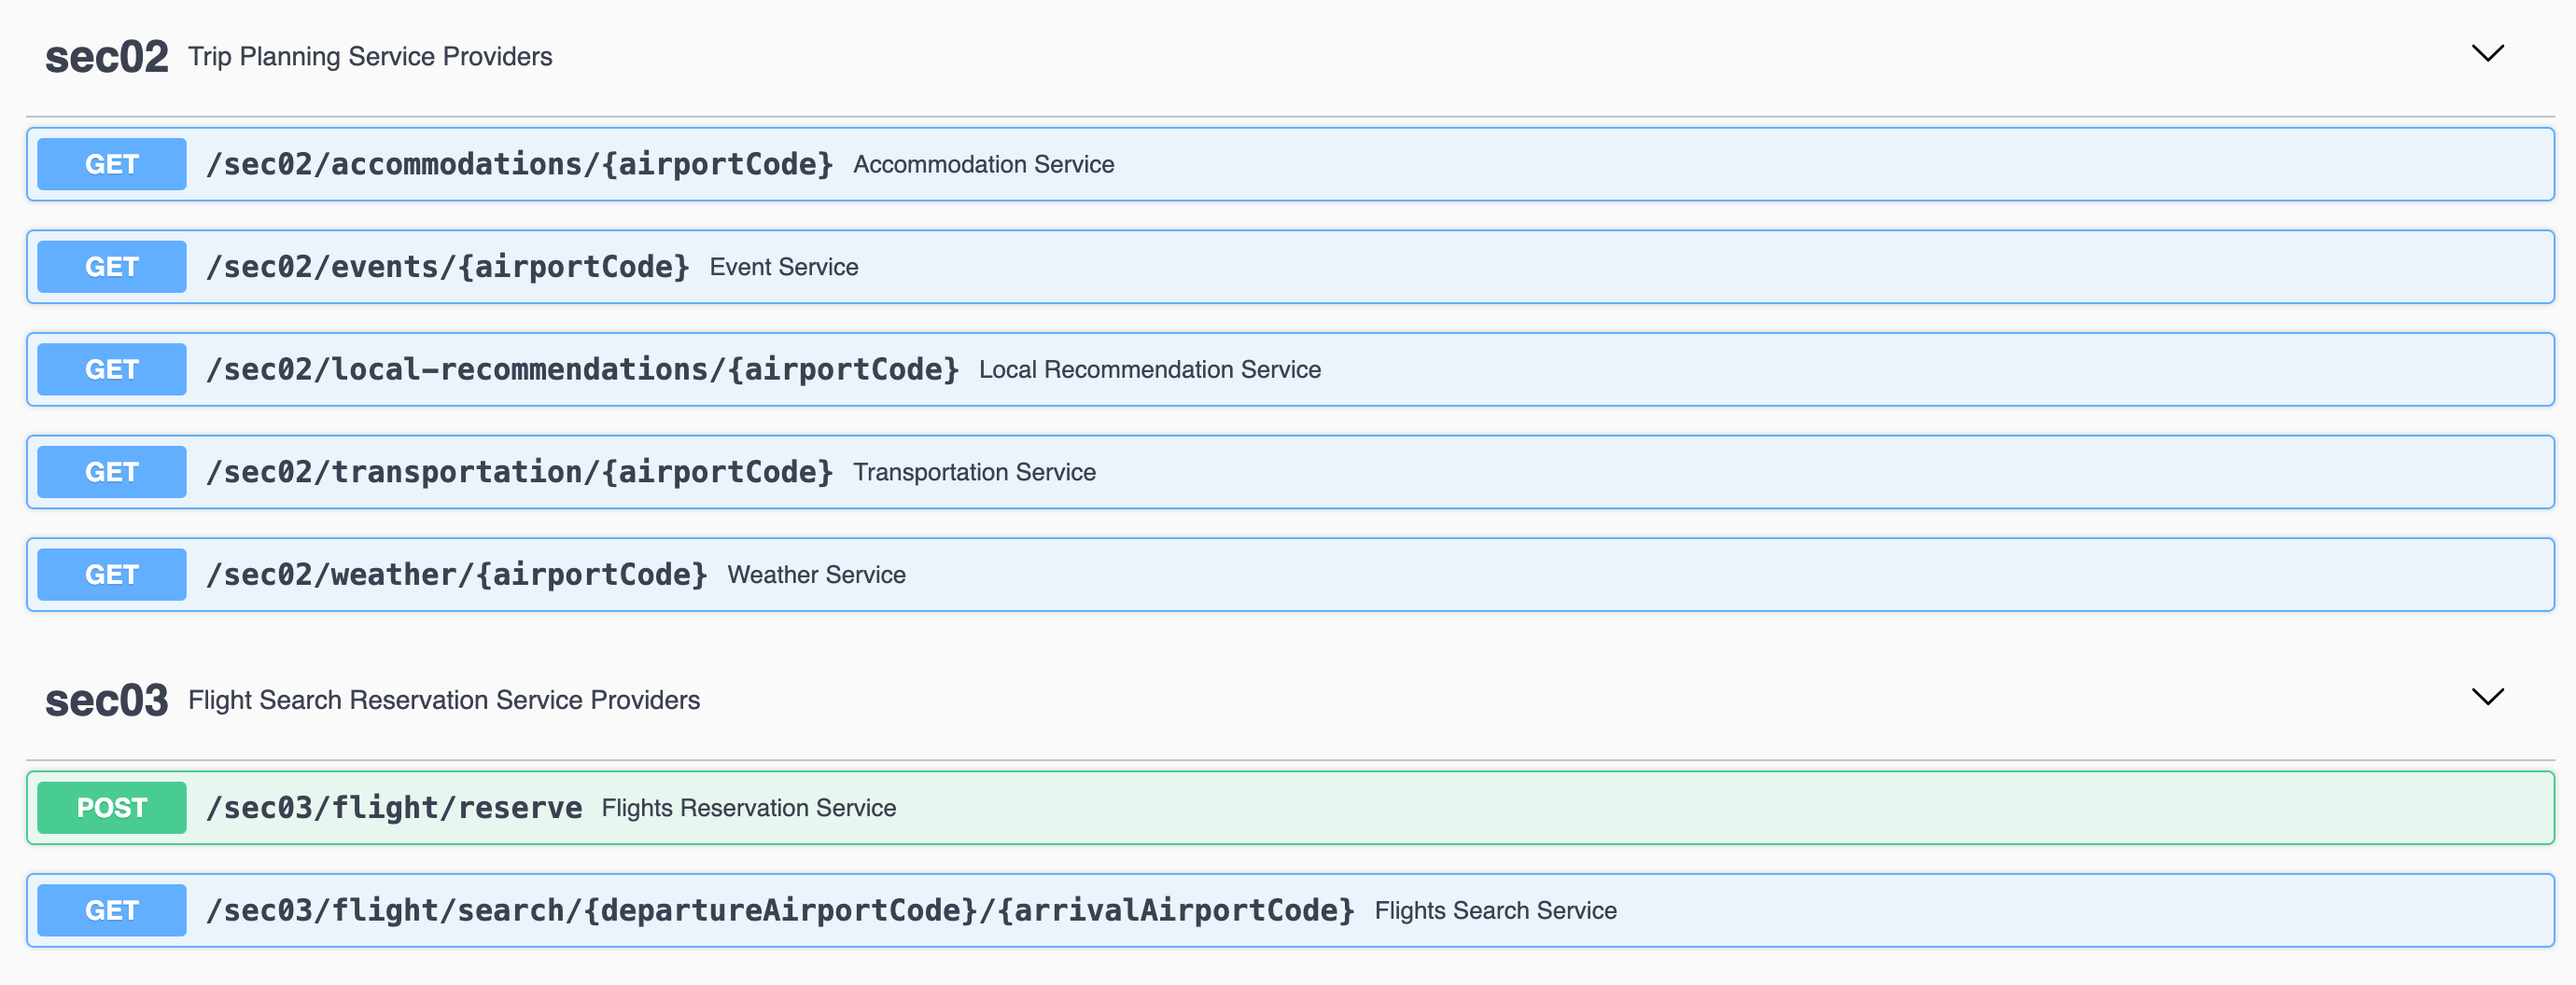
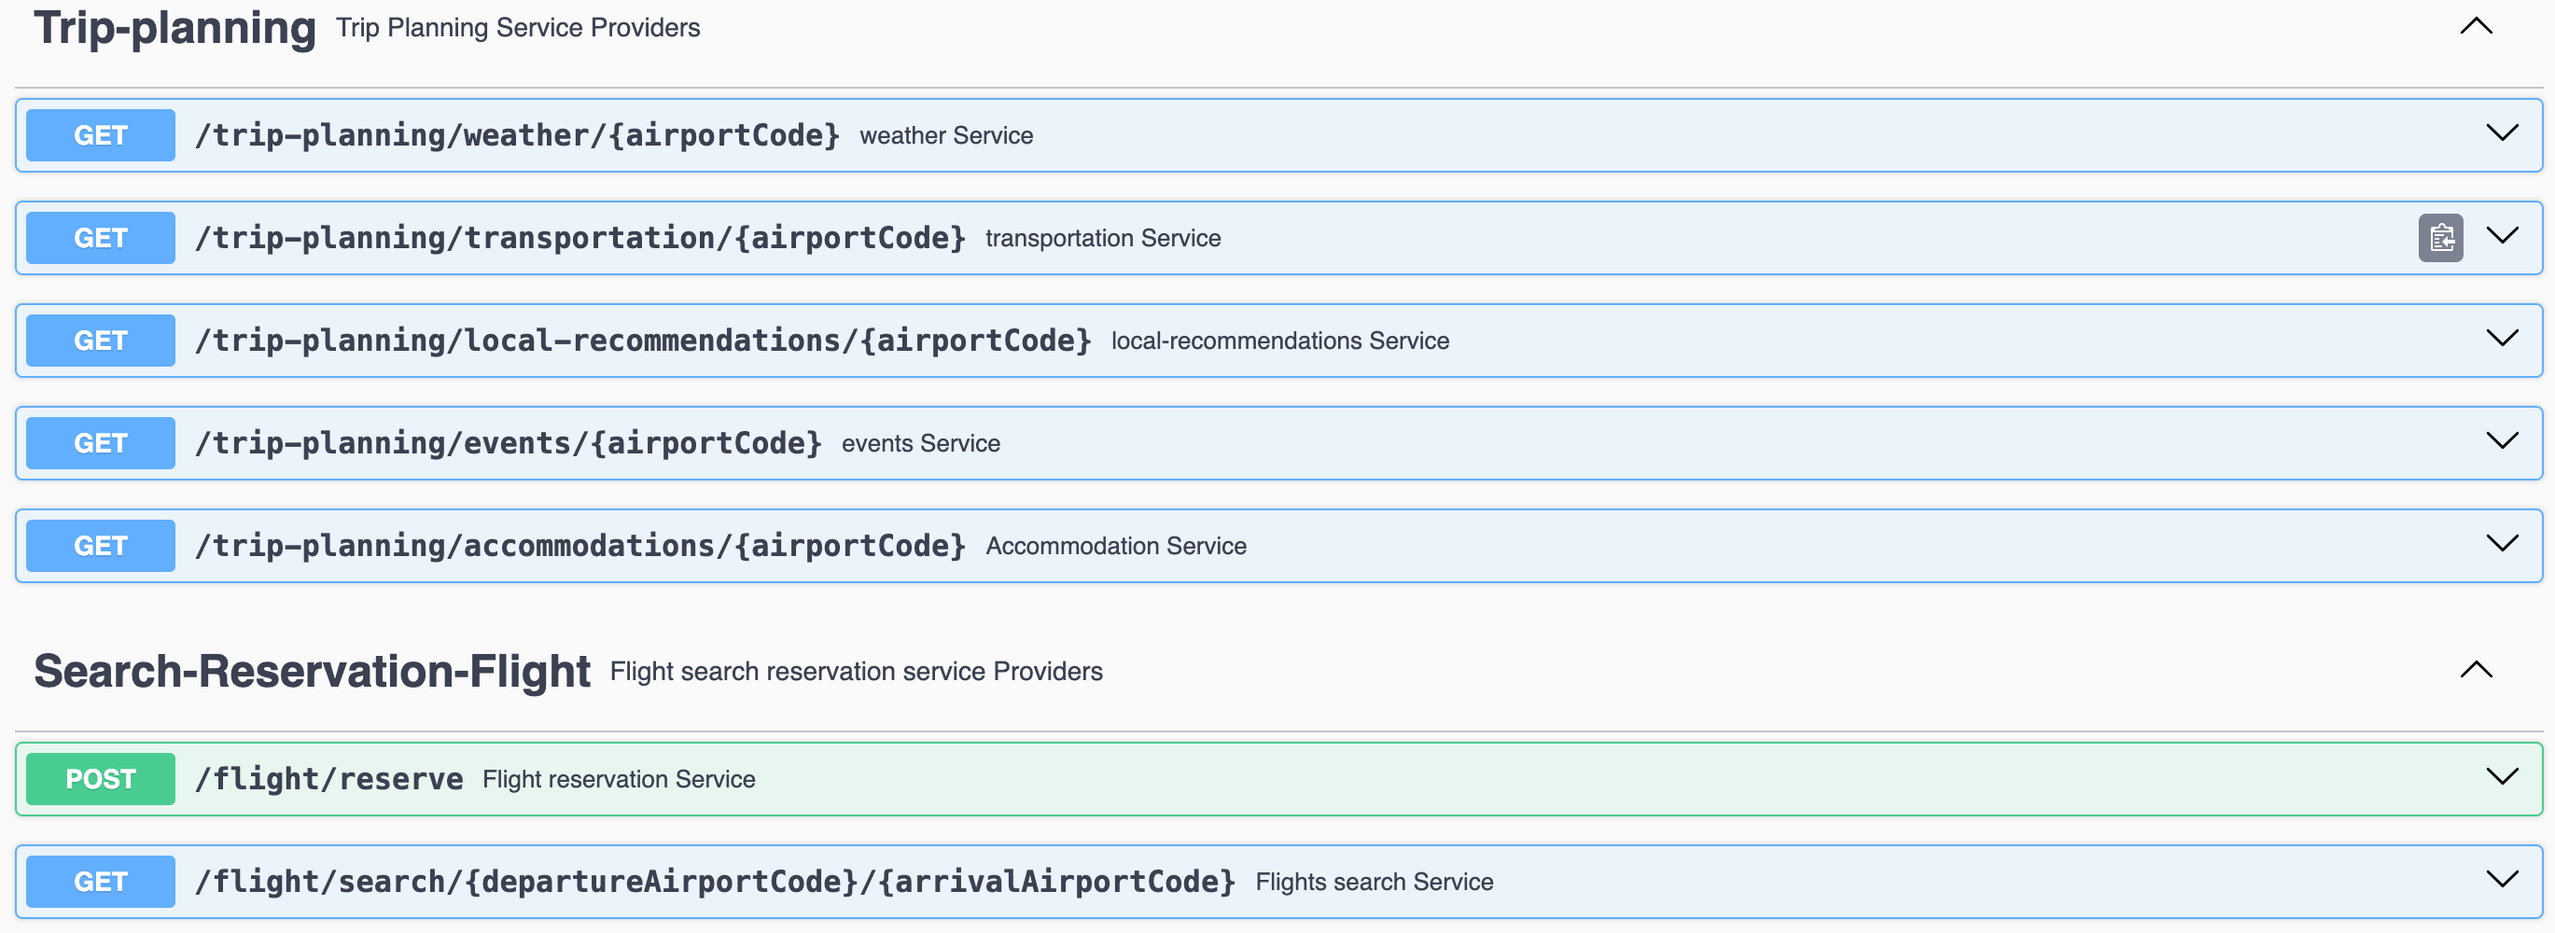
improve dockerfile

diff --git a/src/main/java/com/mick/trip_advisor/service/TripReservationService.java b/src/main/java/com/mick/trip_advisor/service/TripReservationService.java
@@ -29,7 +29,7 @@ public class TripReservationService {
         var flights = this.searchServiceClient.getFlights(request.departure(), request.arrival());
         var bestDeal = flights.stream().min(Comparator.comparingInt(Flight::price));
         var flight = bestDeal.orElseThrow(() -> new IllegalArgumentException("no Flights found"));
-        var reservationRequest = new FlightReservationRequest(request.departure(), request.arrival(), flight.flightNumber(), request.date());
+        var reservationRequest = new FlightReservationRequest(request.departure(), request.arrival(), flight.flightNumber(), request.tripDate());
         return this.reservationServiceClient.reserve(reservationRequest);
     }
 }

diff --git a/src/main/java/com/mick/trip_advisor/controller/TripController.java b/src/main/java/com/mick/trip_advisor/controller/TripController.java
@@ -23,7 +23,6 @@ public class TripController {
 
     @GetMapping("{airportCode}")
     public TripPlan planTrip(@PathVariable("airportCode") String airportCode) {
-//         log.info("airport code: {}, is virtual: {}", airportCode, Thread.currentThread().isVirtual());
         return this.planService.getTripPlan(airportCode);
     }
 

diff --git a/src/main/java/com/mick/trip_advisor/dto/Flight.java b/src/main/java/com/mick/trip_advisor/dto/Flight.java
@@ -5,6 +5,6 @@ import java.time.LocalDate;
 public record Flight(String flightNumber,
                      String airline,
                      int price,
-                     LocalDate date,
+                     LocalDate tripDate,
                      int flightDurationInMinutes) {
 }

diff --git a/src/main/java/com/mick/trip_advisor/dto/TripReservationRequest.java b/src/main/java/com/mick/trip_advisor/dto/TripReservationRequest.java
@@ -4,5 +4,5 @@ import java.time.LocalDate;
 
 public record TripReservationRequest(String departure,
                                      String arrival,
-                                     LocalDate date) {
+                                     LocalDate tripDate) {
 }
